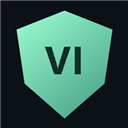
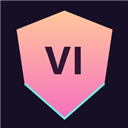
Apply Vice City visual theme across extension interfaces

diff --git a/options/options.css b/options/options.css
@@ -1,1 +1,56 @@
-.layout{display:grid;grid-template-columns:256px 1fr;min-height:100vh}aside{position:sticky;top:0;height:100vh;border-right:1px solid var(--line);padding:30px 22px;display:flex;flex-direction:column}.brand{display:flex;gap:10px;align-items:center;font-size:19px;font-weight:650;letter-spacing:-.5px;margin-bottom:40px}.brand span{color:var(--mint)}.brand small{display:block;font-size:7px;letter-spacing:1px;margin-top:6px}aside nav{display:grid;gap:7px}aside nav a{padding:13px 16px;color:var(--muted);display:flex;gap:14px;border:1px solid transparent;border-radius:10px}aside nav a.active{background:#17332d;border-color:#285345;color:var(--mint)}aside nav a:hover{background:var(--panel);color:var(--text)}.privacy{margin-top:auto;padding:22px 0;font-size:11px}.privacy p{font-size:11px;margin:8px 0 0}aside>small{font-size:10px;line-height:1.8}main{min-width:0;padding:0 54px 60px;max-width:1280px;width:100%;margin:auto}.top{height:90px;border-bottom:1px solid var(--line);display:flex;align-items:center;justify-content:space-between;margin-bottom:40px;font-size:10px;letter-spacing:1.3px;color:var(--muted)}#saveStatus{letter-spacing:0;color:var(--mint);max-width:60%;text-align:right}.intro{font-size:14px;max-width:680px;margin-bottom:28px}.hero{border:1px solid #315449;background:radial-gradient(ellipse at right,#244839,#141f29 70%);border-radius:18px;padding:30px 34px;display:flex;align-items:center;justify-content:space-between;margin-bottom:28px;overflow:hidden}.hero h2{font-size:28px;letter-spacing:-.8px;margin:16px 0 10px}.hero p{margin:0;font-size:13px}.shield{width:125px;height:145px;display:grid;place-items:center;clip-path:polygon(50% 0,95% 18%,89% 70%,50% 100%,11% 70%,5% 18%);background:linear-gradient(140deg,#8df5c0,#568e82);color:#143d33;font-weight:800;font-size:56px;transform:rotate(9deg);flex-shrink:0;margin:0 15px}.setting{display:flex;align-items:center;justify-content:space-between;gap:30px;padding:20px 0;border-top:1px solid var(--line)}.setting b{font-size:13px;font-weight:550}.setting small{display:block;font-size:11px;margin-top:6px;line-height:1.5}.setting select{min-width:165px}.language-grid{display:grid;grid-template-columns:repeat(3,1fr);gap:14px}.language-card{display:flex;align-items:center;gap:12px;background:var(--panel);border:1px solid var(--line);border-radius:12px;padding:18px}.language-card b{display:block;font-size:12px}.language-card small{font-size:10px}.columns,.stat-grid{display:grid;grid-template-columns:1fr 1fr;gap:18px}.stat-grid strong{display:block;font-size:46px;color:var(--mint);letter-spacing:-2px}.stat-grid span{display:block;font-size:12px;color:var(--muted);margin-top:8px}.danger{border-color:#51333d}.danger button{color:var(--pink)}.keyword-form{display:grid;grid-template-columns:2fr 1fr 1fr;gap:12px}.keyword-form label{display:grid;gap:8px}.keyword-form .full{grid-column:1/-1}.keyword-form .inline{display:flex}.keyword-list{padding:0 22px}.keyword-row{gap:16px}.keyword-row .term{min-width:0;flex:1;overflow-wrap:anywhere}.keyword-row .term strong{font-size:13px;font-weight:550}.keyword-row .term small{font-size:10px}.keyword-row input{flex-shrink:0}.pagination{display:flex;align-items:center;justify-content:space-between;gap:12px}.pagination span{color:var(--muted);font-size:12px}details{margin:20px 0}summary{cursor:pointer;color:var(--muted);padding:14px}.deleted{max-height:300px;overflow:auto}@media(min-width:1600px){main{max-width:1200px}}@media(max-width:1000px){main{padding:0 26px 40px}.layout{grid-template-columns:210px 1fr}aside{padding:24px 16px}.language-grid{grid-template-columns:repeat(2,1fr)}.shield{width:90px;height:110px;font-size:40px}.keyword-form{grid-template-columns:1fr 1fr}}@media(max-width:720px){.layout{display:block}aside{position:static;width:100%;height:auto;padding:20px}.brand{margin-bottom:15px}aside nav{display:flex;overflow:auto}aside nav a{padding:9px;white-space:nowrap}.privacy,aside>small{display:none}.top{height:65px;margin-bottom:25px}h1{font-size:29px}.hero{padding:24px}.hero h2{font-size:22px}.shield{display:none}.columns{grid-template-columns:1fr}.setting{gap:15px}.setting select{min-width:130px;max-width:150px}.keyword-form{grid-template-columns:1fr}.keyword-row{flex-wrap:wrap}.keyword-row .actions{margin-left:auto}.language-grid{grid-template-columns:1fr 1fr}}
+.layout { display: grid; grid-template-columns: 256px 1fr; min-height: 100vh; }
+aside { position: sticky; top: 0; height: 100vh; border-right: 1px solid var(--line); background: linear-gradient(180deg, #20162e, #151020 80%); padding: 30px 22px; display: flex; flex-direction: column; }
+.brand { display: flex; gap: 10px; align-items: center; font-size: 19px; font-weight: 700; letter-spacing: -.6px; margin-bottom: 40px; }
+.brand span { color: var(--pink); }
+.brand small { display: block; font-size: 7px; letter-spacing: 1.1px; margin-top: 6px; }
+aside nav { display: grid; gap: 7px; }
+aside nav a { padding: 13px 16px; color: var(--muted); display: flex; gap: 14px; border: 1px solid transparent; border-radius: 10px; }
+aside nav a.active { background: linear-gradient(100deg, #ff90c21e, #ff90c207); border-color: #8c4c75; color: #ffb9db; box-shadow: inset 3px 0 var(--pink); }
+aside nav a:hover { background: #38213f; color: var(--text); }
+.privacy { margin-top: auto; padding: 22px 0; font-size: 11px; }
+.privacy p { font-size: 11px; margin: 8px 0 0; }
+aside > small { font-size: 10px; line-height: 1.8; }
+main { min-width: 0; padding: 0 54px 60px; max-width: 1280px; width: 100%; margin: 0 auto; }
+.top { height: 90px; border-bottom: 1px solid var(--line); display: flex; align-items: center; justify-content: space-between; margin-bottom: 40px; font-size: 9px; letter-spacing: 1.8px; color: #cfa5c3; }
+#saveStatus { letter-spacing: 0; color: var(--mint); max-width: 60%; text-align: right; }
+.intro { font-size: 14px; max-width: 680px; margin-bottom: 28px; }
+.hero { position: relative; isolation: isolate; border: 1px solid #a96793; background: linear-gradient(115deg, #422646, #2c203d 60%, #453047); border-radius: 18px; padding: 32px 34px; display: flex; align-items: center; justify-content: space-between; margin-bottom: 28px; min-height: 240px; overflow: hidden; }
+.hero:before { content: ''; position: absolute; inset: 0 0 0 44%; background: url('../icons/vice-city.svg') center/contain no-repeat; pointer-events: none; z-index: -1; }
+.hero:after { content: ''; position: absolute; inset: auto 0 0; height: 3px; background: linear-gradient(90deg, var(--pink), var(--peach), var(--mint)); }
+.hero-copy { position: relative; max-width: 59%; }
+.hero h2 { font-size: 31px; letter-spacing: -1px; margin: 16px 0 10px; line-height: 1.2; }
+.hero p { margin: 0; font-size: 12px; color: #ddc9e2; }
+.hero-label { display: block; margin-top: 22px; font-size: 8px; letter-spacing: 2.3px; color: var(--peach); }
+.setting { display: flex; align-items: center; justify-content: space-between; gap: 30px; padding: 20px 0; border-top: 1px solid var(--line); }
+.setting b { font-size: 13px; font-weight: 600; }
+.setting small { display: block; font-size: 11px; margin-top: 6px; line-height: 1.5; }
+.setting select { min-width: 165px; }
+.language-grid { display: grid; grid-template-columns: repeat(3,1fr); gap: 14px; }
+.language-card { display: flex; align-items: center; gap: 12px; background: linear-gradient(130deg, #271b36, var(--panel)); border: 1px solid var(--line); border-radius: 12px; padding: 18px; }
+.language-card:has(input:checked) { border-color: #52827e; }
+.language-card b { display: block; font-size: 12px; }
+.language-card small { font-size: 10px; }
+.columns, .stat-grid { display: grid; grid-template-columns: 1fr 1fr; gap: 18px; }
+.stat-grid strong { display: block; font-size: 46px; color: var(--pink); letter-spacing: -2px; }
+.stat-grid > div:last-child strong { color: var(--mint); }
+.stat-grid span { display: block; font-size: 12px; color: var(--muted); margin-top: 8px; }
+.danger { border-color: #915472; }
+.danger button { color: var(--pink); }
+.keyword-form { display: grid; grid-template-columns: 2fr 1fr 1fr; gap: 12px; }
+.keyword-form label { display: grid; gap: 8px; }
+.keyword-form .full { grid-column: 1/-1; }
+.keyword-form .inline { display: flex; }
+.keyword-list { padding: 0 22px; }
+.keyword-row { gap: 16px; }
+.keyword-row .term { min-width: 0; flex: 1; overflow-wrap: anywhere; }
+.keyword-row .term strong { font-size: 13px; font-weight: 550; }
+.keyword-row .term small { font-size: 10px; }
+.keyword-row input { flex-shrink: 0; }
+.pagination { display: flex; align-items: center; justify-content: space-between; gap: 12px; }
+.pagination span { color: var(--muted); font-size: 12px; }
+details { margin: 20px 0; }
+summary { cursor: pointer; color: var(--muted); padding: 14px; }
+.deleted { max-height: 300px; overflow: auto; }
+@media(min-width:1600px) { main { max-width: 1200px; } }
+@media(max-width:1000px) { main { padding: 0 26px 40px; } .layout { grid-template-columns: 210px 1fr; } aside { padding: 24px 16px; } .language-grid { grid-template-columns: repeat(2,1fr); } .keyword-form { grid-template-columns: 1fr 1fr; } .hero { padding: 28px; } .hero h2 { font-size: 27px; } }
+@media(max-width:720px) { .layout { display: block; } aside { position: static; width: 100%; height: auto; padding: 20px; } .brand { margin-bottom: 15px; } aside nav { display: flex; overflow: auto; } aside nav a { padding: 9px; white-space: nowrap; } .privacy, aside > small { display: none; } .top { height: 65px; margin-bottom: 25px; font-size: 8px; } h1 { font-size: 29px; } .hero { padding: 24px; min-height: 265px; } .hero:before { inset: 40% -40px -40px 35%; opacity: .45; } .hero-copy { max-width: 100%; } .hero h2 { font-size: 25px; } .columns { grid-template-columns: 1fr; } .setting { gap: 15px; } .setting select { min-width: 130px; max-width: 150px; } .keyword-form { grid-template-columns: 1fr; } .keyword-row { flex-wrap: wrap; } .keyword-row .actions { margin-left: auto; } .language-grid { grid-template-columns: 1fr 1fr; } }@media(max-width:720px) { .setting:has(select) { display: block; } .setting select { width: 100%; max-width: none; margin-top: 14px; } }

diff --git a/shared/ui.css b/shared/ui.css
@@ -1,1 +1,58 @@
-:root{color-scheme:dark;--bg:#0c1017;--panel:#141b25;--line:#293344;--text:#eaf0f8;--muted:#93a1b6;--mint:#72f2bf;--pink:#f49db7;--radius:16px;font-family:Inter,Segoe UI,system-ui,sans-serif;font-size:14px}*{box-sizing:border-box}body{margin:0;background:var(--bg);color:var(--text)}h1,h2,p{margin-top:0}h1{font-size:36px;letter-spacing:-1.4px;font-weight:650;margin-bottom:16px}h2{font-size:18px;font-weight:600}p{color:var(--muted);line-height:1.65}a{color:inherit;text-decoration:none}button,select,input{font:inherit}button,.file-button{border:1px solid var(--line);border-radius:9px;background:#1c2532;color:var(--text);padding:10px 14px;cursor:pointer;font-weight:600}button:hover,.file-button:hover{border-color:var(--mint);background:#243343}button:disabled{opacity:.5;cursor:default}button.primary{background:var(--mint);color:#10291f;border-color:transparent}button.primary:hover{background:#a0ffd7}input:not([type=checkbox]),select{min-width:0;border:1px solid var(--line);border-radius:8px;background:#101620;color:var(--text);padding:10px 12px}input[type=checkbox]{accent-color:var(--mint);width:18px;height:18px;cursor:pointer}input[role=switch]{appearance:none;width:42px;height:24px;background:#3a4658;border-radius:20px;position:relative;flex-shrink:0}input[role=switch]:before{content:'';position:absolute;top:3px;left:3px;width:18px;height:18px;background:white;border-radius:50%;transition:transform .15s}input[role=switch]:checked{background:#43aa84}input[role=switch]:checked:before{transform:translateX(18px)}:focus-visible{outline:2px solid var(--mint);outline-offset:3px}.eyebrow{font-size:10px;font-weight:700;letter-spacing:1.6px;color:var(--muted)}.dot{display:inline-block;width:6px;height:6px;background:var(--mint);border-radius:50%;margin-right:6px}.status{display:inline-flex;align-items:center;gap:7px;font-size:10px;font-weight:700;letter-spacing:.8px;color:var(--mint)}.status:before{content:'';width:6px;height:6px;background:currentColor;border-radius:50%}small{color:var(--muted)}[hidden]{display:none!important}.box{background:var(--panel);border:1px solid var(--line);padding:24px;border-radius:var(--radius);margin-bottom:18px}.toolbar{display:flex;gap:10px;align-items:center;flex-wrap:wrap;margin:18px 0}.toolbar input{flex:1}label{font-size:13px}.inline{display:flex;align-items:center;gap:8px}.empty{padding:24px 0;color:var(--muted)}.form-row{display:flex;gap:14px;align-items:end;flex-wrap:wrap}.form-row>label{display:grid;gap:8px;flex:1}.form-row>.inline{display:flex}.row{display:flex;gap:12px;align-items:center;justify-content:space-between;border-bottom:1px solid var(--line);padding:14px 0}.row:last-child{border:0}.row small{display:block;margin-top:4px}.actions{display:flex;gap:8px}.actions button{font-size:12px;padding:7px 10px}.file-button input{display:none}
+:root {
+  color-scheme: dark;
+  --bg: #120e20;
+  --panel: #1d172d;
+  --line: #3b2d4e;
+  --text: #fff4f8;
+  --muted: #bcb0cb;
+  --mint: #75e9df;
+  --pink: #ff90c2;
+  --peach: #ffd1a5;
+  --radius: 16px;
+  font-family: 'Segoe UI', system-ui, sans-serif;
+  font-size: 14px;
+}
+* { box-sizing: border-box; }
+body { margin: 0; background: radial-gradient(ellipse at 85% 0%, #43204365, transparent 50%), var(--bg); color: var(--text); }
+h1, h2, p { margin-top: 0; }
+h1 { font-size: 38px; letter-spacing: -1.5px; font-weight: 700; margin-bottom: 16px; }
+h2 { font-size: 18px; font-weight: 600; }
+p { color: var(--muted); line-height: 1.65; }
+a { color: inherit; text-decoration: none; }
+button, select, input { font: inherit; }
+button, .file-button { border: 1px solid var(--line); border-radius: 9px; background: #2b203c; color: var(--text); padding: 10px 14px; cursor: pointer; font-weight: 600; transition: background .15s, border-color .15s, box-shadow .15s; }
+button:hover, .file-button:hover { border-color: var(--pink); background: #3d294d; }
+button:disabled { opacity: .5; cursor: default; }
+button.primary { background: linear-gradient(115deg, #ff94c8, #ffb4b5); color: #301330; border-color: #ffc0d4; box-shadow: 0 4px 24px #ff79bb18; }
+button.primary:hover { background: linear-gradient(115deg, #ffb0d7, #ffd0bb); box-shadow: 0 4px 28px #ff79bb30; }
+input:not([type=checkbox]), select { min-width: 0; border: 1px solid var(--line); border-radius: 8px; background: #181224; color: var(--text); padding: 10px 12px; }
+input::placeholder { color: #9a8baa; }
+input[type=checkbox] { accent-color: var(--mint); width: 18px; height: 18px; cursor: pointer; }
+input[role=switch] { appearance: none; width: 42px; height: 24px; background: #52435f; border: 1px solid #73617f; border-radius: 20px; position: relative; flex-shrink: 0; }
+input[role=switch]:before { content: ''; position: absolute; top: 2px; left: 2px; width: 18px; height: 18px; background: #fff5fc; border-radius: 50%; transition: transform .15s; }
+input[role=switch]:checked { background: #278b86; border-color: #75e9df; box-shadow: 0 0 12px #75e9df18; }
+input[role=switch]:checked:before { transform: translateX(18px); }
+:focus-visible { outline: 2px solid var(--mint); outline-offset: 3px; }
+.eyebrow { font-size: 10px; font-weight: 700; letter-spacing: 1.8px; color: var(--pink); }
+.dot { display: inline-block; width: 6px; height: 6px; background: var(--mint); border-radius: 50%; margin-right: 6px; box-shadow: 0 0 8px #75e9df55; }
+.status { display: inline-flex; align-items: center; gap: 7px; font-size: 10px; font-weight: 700; letter-spacing: 1px; color: var(--mint); }
+.status:before { content: ''; width: 6px; height: 6px; background: currentColor; border-radius: 50%; box-shadow: 0 0 9px currentColor; }
+small { color: var(--muted); }
+[hidden] { display: none !important; }
+.box { background: linear-gradient(140deg, #241b34, var(--panel)); border: 1px solid var(--line); padding: 24px; border-radius: var(--radius); margin-bottom: 18px; }
+.toolbar { display: flex; gap: 10px; align-items: center; flex-wrap: wrap; margin: 18px 0; }
+.toolbar input { flex: 1; }
+label { font-size: 13px; }
+.inline { display: flex; align-items: center; gap: 8px; }
+.empty { padding: 24px 0; color: var(--muted); }
+.form-row { display: flex; gap: 14px; align-items: end; flex-wrap: wrap; }
+.form-row > label { display: grid; gap: 8px; flex: 1; }
+.form-row > .inline { display: flex; }
+.row { display: flex; gap: 12px; align-items: center; justify-content: space-between; border-bottom: 1px solid var(--line); padding: 14px 0; }
+.row:last-child { border: 0; }
+.row small { display: block; margin-top: 4px; }
+.actions { display: flex; gap: 8px; }
+.actions button { font-size: 12px; padding: 7px 10px; }
+.file-button input { display: none; }
+::selection { background: #ff90c24d; color: white; }
+@media (prefers-reduced-motion: reduce) { *, *:before, *:after { transition: none !important; scroll-behavior: auto !important; } }

diff --git a/options/options.html b/options/options.html
@@ -1,7 +1,7 @@
 <!doctype html>
-<html lang="pt-BR"><head><meta charset="utf-8"><meta name="viewport" content="width=device-width, initial-scale=1"><title>GTA VI Blocker · Configurações</title><link rel="stylesheet" href="../shared/ui.css"><link rel="stylesheet" href="options.css"></head><body><div class="layout"><aside><a class="brand" href="#general"><img src="../icons/icon48.png" width="40" height="40" alt=""><div>GTA VI <span>Blocker</span><small>SEU JOGO, SUA DESCOBERTA.</small></div></a><nav id="navigation"><a href="#general">◈ <span>Geral</span></a><a href="#keywords">⌕ <span>Palavras-chave</span></a><a href="#languages">◎ <span>Idiomas</span></a><a href="#characters">♙ <span>Personagens</span></a><a href="#videos">▷ <span>Vídeos</span></a><a href="#sites">◇ <span>Sites permitidos</span></a><a href="#stats">▥ <span>Estatísticas</span></a><a href="#backup">↥ <span>Backup</span></a></nav><div class="privacy"><span class="dot"></span> Privacidade por padrão<p>A análise acontece no seu navegador. Sem servidores, sem rastreadores.</p></div><small>GTA VI Blocker · 1.0.2<br>Projeto independente de fãs.</small></aside>
-<main><header class="top"><span>PAINEL DE PROTEÇÃO</span><span id="saveStatus" role="status" aria-live="polite">Carregando…</span></header>
-<section id="general" class="panel"><p class="eyebrow">NAVEGUE COM TRANQUILIDADE</p><h1>Spoilers ficam de fora.</h1><p class="intro">A próxima grande história merece ser descoberta por você. Ajuste como a extensão cuida da sua navegação.</p><div class="hero"><div><span class="status" id="globalStatus">PROTEÇÃO LOCAL</span><h2>Seu escudo está pronto.</h2><p>Feeds, pesquisas, notícias e vídeos.<br>Uma proteção que acompanha sua navegação.</p></div><div class="shield">VI</div></div><div class="box"><h2>Preferências de proteção</h2><label class="setting"><span><b>Ativar proteção</b><small>Desativar restaura os conteúdos ocultos nas abas abertas.</small></span><input id="enabled" type="checkbox" role="switch"></label><label class="setting"><span><b>Sensibilidade</b><small>No modo extremo, nomes comuns também podem ser ocultados.</small></span><select id="sensitivity"><option value="smart">Inteligente</option><option value="strict">Rigoroso</option><option value="extreme">Extremo</option></select></label><label class="setting"><span><b>Apresentação dos bloqueios</b><small>O aviso permite revelar e ocultar cada conteúdo.</small></span><select id="display"><option value="notice">Ocultar com aviso</option><option value="hide">Ocultação completa</option></select></label><label class="setting"><span><b>Proteger páginas inteiras</b><small>Combina URL, título, cabeçalhos e metadados.</small></span><input id="pageGuard" type="checkbox" role="switch"></label></div></section>
+<html lang="pt-BR"><head><meta charset="utf-8"><meta name="viewport" content="width=device-width, initial-scale=1"><title>GTA VI Blocker · Configurações</title><link rel="stylesheet" href="../shared/ui.css"><link rel="stylesheet" href="options.css"></head><body><div class="layout"><aside><a class="brand" href="#general"><img src="../icons/icon48.png" width="40" height="40" alt=""><div>GTA VI <span>Blocker</span><small>SEU JOGO, SUA DESCOBERTA.</small></div></a><nav id="navigation"><a href="#general">◈ <span>Geral</span></a><a href="#keywords">⌕ <span>Palavras-chave</span></a><a href="#languages">◎ <span>Idiomas</span></a><a href="#characters">♙ <span>Personagens</span></a><a href="#videos">▷ <span>Vídeos</span></a><a href="#sites">◇ <span>Sites permitidos</span></a><a href="#stats">▥ <span>Estatísticas</span></a><a href="#backup">↥ <span>Backup</span></a></nav><div class="privacy"><span class="dot"></span> Privacidade por padrão<p>A análise acontece no seu navegador. Sem servidores, sem rastreadores.</p></div><small>GTA VI Blocker · 1.1.0<br>Projeto independente de fãs.</small></aside>
+<main><header class="top"><span>VICE CITY EDITION / PROTEÇÃO</span><span id="saveStatus" role="status" aria-live="polite">Carregando…</span></header>
+<section id="general" class="panel"><p class="eyebrow">NAVEGUE COM TRANQUILIDADE</p><h1>Spoilers ficam de fora.</h1><p class="intro">A próxima grande história merece ser descoberta por você. Ajuste como a extensão cuida da sua navegação.</p><div class="hero"><div class="hero-copy"><span class="status" id="globalStatus">PROTEÇÃO LOCAL</span><h2>Neon aceso.<br>Spoilers apagados.</h2><p>Feeds, pesquisas, notícias e vídeos.<br>Uma proteção que acompanha sua navegação.</p><span class="hero-label">VICE CITY EDITION · SEM SPOILERS</span></div></div><div class="box"><h2>Preferências de proteção</h2><label class="setting"><span><b>Ativar proteção</b><small>Desativar restaura os conteúdos ocultos nas abas abertas.</small></span><input id="enabled" type="checkbox" role="switch"></label><label class="setting"><span><b>Sensibilidade</b><small>No modo extremo, nomes comuns também podem ser ocultados.</small></span><select id="sensitivity"><option value="smart">Inteligente</option><option value="strict">Rigoroso</option><option value="extreme">Extremo</option></select></label><label class="setting"><span><b>Apresentação dos bloqueios</b><small>O aviso permite revelar e ocultar cada conteúdo.</small></span><select id="display"><option value="notice">Ocultar com aviso</option><option value="hide">Ocultação completa</option></select></label><label class="setting"><span><b>Proteger páginas inteiras</b><small>Combina URL, título, cabeçalhos e metadados.</small></span><input id="pageGuard" type="checkbox" role="switch"></label></div></section>
 <section id="keywords" class="panel" hidden><p class="eyebrow">DETECÇÃO PERSONALIZÁVEL</p><h1>Palavras-chave</h1><p class="intro">Termos auxiliares precisam de evidências do jogo. As regras “sempre” são independentes da sensibilidade.</p><div id="keywordManager"></div></section>
 <section id="characters" class="panel" hidden><p class="eyebrow">QUEM FAZ PARTE DA HISTÓRIA</p><h1>Personagens e NPCs</h1><p class="intro">Nomes comuns precisam de contexto no modo inteligente. Edite a sensibilidade e a regra de cada nome.</p><div id="characterManager"></div></section>
 <section id="languages" class="panel" hidden><p class="eyebrow">PROTEÇÃO SEM FRONTEIRAS</p><h1>Um escudo, muitos idiomas.</h1><p class="intro">17 idiomas e duas variantes chinesas: 18 conjuntos linguísticos. Títulos internacionais compartilhados continuam ativos.</p><div class="toolbar"><button id="allLanguages" class="primary">Selecionar todos</button><button id="defaultLanguages">Restaurar padrão</button><button id="noLanguages">Desmarcar todos</button></div><div id="languageGrid" class="language-grid"></div></section>

diff --git a/popup/popup.css b/popup/popup.css
@@ -1,1 +1,34 @@
-body{width:380px}main{padding:22px}header{display:flex;align-items:center;gap:10px;margin-bottom:22px}header h1{font-size:20px;letter-spacing:-.6px;margin:0}h1 span{color:var(--mint)}header .eyebrow{font-size:7px;letter-spacing:1.3px;margin:4px 0 0}.gear{margin-left:auto;color:var(--muted);font-size:22px}.protection{padding:20px;border:1px solid #2c5044;border-radius:16px;background:radial-gradient(ellipse at top right,#18392f 0%,#141d25 70%)}.protection h2{font-size:24px;letter-spacing:-.7px;margin:14px 0 6px}.protection p{font-size:12px;margin-bottom:18px}.wide{width:100%}.pause{display:flex;align-items:center;justify-content:space-between;color:var(--muted);font-size:11px;margin-top:14px}.pause select{max-width:185px;font-size:11px;padding:7px}.metrics{display:grid;grid-template-columns:1fr 1fr;gap:12px;margin:14px 0}.metrics section{padding:16px;background:var(--panel);border:1px solid var(--line);border-radius:12px}.metrics strong{display:block;font-size:28px;font-weight:600;letter-spacing:-1px}.metrics span{color:var(--muted);font-size:10px}.site{display:flex;justify-content:space-between;align-items:center;gap:10px;padding:16px 0 20px;border-bottom:1px solid var(--line);margin-bottom:20px}.site strong{display:block;font-size:13px;max-width:180px;overflow:hidden;text-overflow:ellipsis;margin:6px 0}.site #siteStatus{font-size:10px;color:var(--muted)}.small{font-size:10px;max-width:120px;padding:8px}#sensitivity{width:100%;font-size:12px;margin-top:10px}.quick{display:grid;grid-template-columns:1fr 1fr;margin-top:16px;gap:8px}.quick a{font-size:10px;padding:10px;background:var(--panel);border:1px solid var(--line);border-radius:8px}.quick a:last-child{grid-column:span 2}.quick a span{float:right;color:var(--muted)}footer{display:flex;align-items:center;font-size:9px;color:var(--muted);padding-top:14px;border-top:1px solid var(--line);margin-top:16px}footer>span:last-child{margin-left:auto}#feedback{font-size:11px;margin:10px 0 0;color:var(--pink)}
+body { width: 380px; }
+main { padding: 18px; }
+header { display: flex; align-items: center; gap: 10px; margin-bottom: 16px; }
+header h1 { font-size: 21px; letter-spacing: -.7px; margin: 0; }
+h1 span { color: var(--pink); }
+header .eyebrow { font-size: 7px; letter-spacing: 1.4px; margin: 4px 0 0; color: var(--muted); }
+.gear { display: grid; place-items: center; width: 32px; height: 32px; margin-left: auto; color: var(--mint); border: 1px solid var(--line); border-radius: 10px; font-size: 20px; }
+.gear:hover { border-color: var(--mint); background: #75e9df12; }
+.protection { position: relative; isolation: isolate; overflow: hidden; padding: 18px; border: 1px solid #986384; border-radius: 16px; background: linear-gradient(135deg, #432744, #251b3a 65%); }
+.protection:before { content: ''; position: absolute; width: 245px; height: 155px; right: -73px; top: -4px; background: url('../icons/vice-city.svg') center/contain no-repeat; opacity: .48; z-index: -1; pointer-events: none; }
+.protection .status { font-size: 9px; }
+.protection h2 { max-width: 240px; font-size: 25px; letter-spacing: -.8px; margin: 13px 0 6px; line-height: 1.15; }
+.protection p { font-size: 11px; color: #e1cfe5; margin-bottom: 16px; max-width: 245px; }
+.wide { width: 100%; }
+.pause { display: flex; align-items: center; justify-content: space-between; color: var(--muted); font-size: 10px; margin-top: 12px; }
+.pause select { max-width: 185px; font-size: 10px; padding: 6px 8px; }
+.metrics { display: grid; grid-template-columns: 1fr 1fr; gap: 10px; margin: 12px 0; }
+.metrics section { padding: 12px 14px; background: linear-gradient(130deg, #2a1c39, #1c182c); border: 1px solid var(--line); border-radius: 12px; }
+.metrics strong { display: block; color: var(--peach); font-size: 27px; font-weight: 650; letter-spacing: -1px; }
+.metrics section:last-child strong { color: var(--mint); }
+.metrics span { color: var(--muted); font-size: 10px; }
+.site { display: flex; justify-content: space-between; align-items: center; gap: 10px; padding: 12px 0 16px; border-bottom: 1px solid var(--line); margin-bottom: 16px; }
+.site strong { display: block; font-size: 12px; max-width: 180px; overflow: hidden; text-overflow: ellipsis; margin: 5px 0; }
+.site #siteStatus { font-size: 10px; color: var(--muted); }
+.small { font-size: 10px; max-width: 120px; padding: 8px; }
+#sensitivity { width: 100%; font-size: 11px; margin-top: 8px; }
+.quick { display: grid; grid-template-columns: 1fr 1fr; margin-top: 14px; gap: 7px; }
+.quick a { font-size: 10px; padding: 9px 10px; background: #21182e; border: 1px solid var(--line); border-radius: 8px; }
+.quick a:hover { border-color: #a45c8c; background: #35213f; }
+.quick a:last-child { grid-column: span 2; }
+.quick a span { float: right; color: var(--pink); }
+footer { display: flex; align-items: center; font-size: 9px; color: var(--muted); padding-top: 12px; border-top: 1px solid var(--line); margin-top: 14px; }
+footer > span:last-child { margin-left: auto; font-size: 8px; letter-spacing: .8px; color: var(--pink); }
+#feedback { font-size: 11px; margin: 8px 0 0; color: var(--pink); }

diff --git a/content/blocker.js b/content/blocker.js
@@ -5,11 +5,12 @@
     const host = document.createElement('div'); host.dataset.gbUi = '';
     const shadow = host.attachShadow({ mode: 'open' });
     const style = document.createElement('style');
-    style.textContent = ':host{display:block!important;position:relative;z-index:2147483646;color-scheme:dark;font:13px/1.5 system-ui!important}section{box-sizing:border-box;background:#151b25;color:#e9eef8;border:1px solid #384456;border-left:3px solid #64efbe;border-radius:12px;padding:16px;margin:8px 0;text-align:left}strong{display:block;font-size:14px}p{color:#aeb9cb;margin:5px 0 12px}button{font:600 12px system-ui;background:#64efbe;color:#08221a;border:0;border-radius:7px;padding:9px 12px;cursor:pointer;margin:3px 6px 3px 0}button:hover{filter:brightness(1.1)}button:focus-visible{outline:3px solid #fff;outline-offset:2px}';
+    style.textContent = ':host{display:block!important;position:relative;z-index:2147483646;color-scheme:dark;font:13px/1.5 system-ui!important}:host([hidden]){display:none!important}section{box-sizing:border-box;background:linear-gradient(115deg,#30203b,#1d172d 75%);color:#fff4f8;border:1px solid #75516d;border-left:3px solid #ff90c2;border-radius:12px;padding:16px;margin:8px 0;text-align:left;box-shadow:0 4px 20px #170e2420}.label{display:block;color:#75e9df;font:700 9px/1.5 system-ui;letter-spacing:1.6px;margin-bottom:8px}strong{display:block;font-size:14px}p{color:#c9b8d2;margin:5px 0 12px}button{font:600 12px system-ui;background:linear-gradient(110deg,#ff94c8,#ffb4b5);color:#301330;border:1px solid #ffc0d4;border-radius:7px;padding:8px 12px;cursor:pointer;margin:3px 6px 3px 0}button:hover{filter:brightness(1.1)}button:focus-visible{outline:3px solid #75e9df;outline-offset:2px}';
     const section = document.createElement('section');
     const strong = document.createElement('strong'); strong.textContent = title;
     const p = document.createElement('p'); p.textContent = description;
-    section.append(strong, p); shadow.append(style, section);
+    const label = document.createElement('span'); label.className = 'label'; label.textContent = 'VI / ÁREA PROTEGIDA';
+    section.append(label, strong, p); shadow.append(style, section);
     return { host, section };
   };
   G.Blocker = class {

diff --git a/popup/popup.html b/popup/popup.html
@@ -6,7 +6,7 @@
 <section class="site"><div><span class="eyebrow">SITE ATUAL</span><strong id="siteName">—</strong><span id="siteStatus"></span></div><button id="siteToggle" class="small" disabled>…</button></section>
 <section><label for="sensitivity" class="eyebrow">NÍVEL DE PROTEÇÃO</label><select id="sensitivity"><option value="smart">Inteligente · proteção com contexto</option><option value="strict">Rigoroso · mais referências</option><option value="extreme">Extremo · máxima sensibilidade</option></select></section>
 <nav class="quick"><a href="../options/options.html#keywords" target="_blank">Palavras-chave <span>↗</span></a><a href="../options/options.html#languages" target="_blank">Idiomas <span>↗</span></a><a href="../options/options.html#sites" target="_blank">Sites permitidos <span>↗</span></a><a href="../options/options.html#stats" target="_blank">Estatísticas <span>↗</span></a><a href="../options/options.html#general" target="_blank">Configurações avançadas <span>↗</span></a></nav>
-<p id="feedback" role="status"></p><footer><span class="dot"></span> 100% local <span>Manifest V3 · v1.0</span></footer></main>
+<p id="feedback" role="status"></p><footer><span class="dot"></span> 100% local <span>VICE CITY EDITION</span></footer></main>
 <script src="../shared/constants.js"></script>
 <script src="../shared/normalization.js"></script>
 <script src="../data/characters.js"></script>

diff --git a/content/page-guard.js b/content/page-guard.js
@@ -17,7 +17,7 @@
       if (score < 4) { this.restore(); return; }
       if (this.host) return;
       const ui = G.ui('Página bloqueada pelo GTA VI Blocker', 'Detectamos conteúdo potencialmente relacionado ao GTA VI nesta página.');
-      ui.host.style.cssText = 'position:fixed!important;inset:0!important;z-index:2147483647!important;background:#0b101b!important;display:grid!important;place-items:center!important;padding:24px!important;';
+      ui.host.style.cssText = 'position:fixed!important;inset:0!important;z-index:2147483647!important;background:radial-gradient(ellipse at 70% 10%,#59304e,#1e142f 50%,#120e20 85%)!important;display:grid!important;place-items:center!important;padding:24px!important;';
       ui.section.style.maxWidth = '520px';
       ui.section.append(G.button('Voltar', () => history.back()), G.button('Liberar esta página temporariamente', () => { this.released = true; this.restore(); this.app.blocker.restore(); this.app.video.restore(); this.app.pageReleased = true; }), G.button('Desativar proteção neste site', async () => { await G.message({ type: 'ALLOW_SITE', domain: location.hostname, subdomains: false }); }));
       document.documentElement.append(ui.host); document.documentElement.setAttribute('data-gb-page-covered', ''); this.host = ui.host;

diff --git a/README.md b/README.md
@@ -4,6 +4,8 @@ Extensão Chrome Manifest V3 para reduzir a exposição involuntária a notícia
 
 ![Painel de configurações do GTA VI Blocker](docs/options.png)
 
+**Vice City Edition:** tema roxo noturno com rosa neon, turquesa, degradês de pôr do sol e ilustração vetorial de palmeiras. A identidade aparece no popup, nas configurações, nos ícones e nos avisos de proteção. Todos os recursos são locais, com foco visível de teclado, adaptação para telas pequenas e suporte à preferência de movimento reduzido.
+
 ## Instalação no Chrome
 
 1. Baixe o ZIP da release e **extraia** em uma pasta permanente, ou clone este repositório.
@@ -77,9 +79,9 @@ npm run test:e2e
 npm run package
 ```
 
-O teste de integração inicia um perfil Chromium temporário e isolado com a extensão real carregada, usa uma página HTTP local e reinicia o navegador para conferir persistência. Capturas ficam em `test-results/`. O ZIP instalável fica em `dist/gta-vi-blocker-1.0.2.zip`, sem dependências de desenvolvimento. O workflow também disponibiliza esse ZIP como artefato.
+O teste de integração inicia um perfil Chromium temporário e isolado com a extensão real carregada, usa uma página HTTP local e reinicia o navegador para conferir persistência. Capturas ficam em `test-results/`. O ZIP instalável fica em `dist/gta-vi-blocker-1.1.0.zip`, sem dependências de desenvolvimento. O workflow também disponibiliza esse ZIP como artefato.
 
-Validação da versão 1.0.2: **70 testes automatizados e 19 verificações de integração passaram**. Veja [TESTING.md](TESTING.md) para ambiente, escopo, página pública verificada e limitações da validação.
+Validação da versão 1.1.0: **70 testes automatizados e 19 verificações de integração passaram**. Veja [TESTING.md](TESTING.md) para ambiente, escopo, página pública verificada e limitações da validação.
 
 Para regenerar os dicionários e o manifest/HTML após editar os respectivos geradores: `node scripts/dictionaries.mjs` e `node scripts/scaffold.mjs`. Os ícones podem ser regenerados no Windows com `powershell -File scripts/icons.ps1`.
 

diff --git a/TESTING.md b/TESTING.md
@@ -1,4 +1,4 @@
-# Verificação da versão 1.0.2
+# Verificação da versão 1.1.0
 
 Validação local em 16/11/2026, Windows, Node 24.21.0, Chromium 141.0.7390.37 (perfil isolado Playwright).
 
@@ -20,6 +20,8 @@ O teste de vídeo do navegador usa um elemento HTML5 sem mídia externa; verific
 - Busca Google por GTA VI: a conexão retornou uma página intermediária de verificação do Google. A proteção de página foi acionada pelo endereço/título. Isso **não valida a cobertura dos cards da página normal de resultados**.
 
 As capturas do popup e das configurações foram renderizadas no Chromium e inspecionadas visualmente. Não foram feitos testes autenticados em Instagram, Facebook, TikTok, X, Twitch ou Reddit. Os seletores desses serviços existem, mas sua cobertura completa não é certificada por este relatório.
+
+Na versão 1.1.0, o tema Vice City foi revisado nas seções de configurações em desktop, no popup, no aviso de conteúdo e em uma tela de 390 px, sem overflow horizontal nas configurações. `node scripts/preview.mjs` gera essas capturas em `test-results/` e verifica erros JavaScript durante a navegação das telas.
 
 ## Roteiro manual complementar
 

diff --git a/docs/release-notes-1.1.0.md b/docs/release-notes-1.1.0.md
@@ -1,0 +1,15 @@
+GTA VI Blocker 1.1.0 — Vice City Edition
+
+Nova identidade visual inspirada no clima de Vice City:
+
+- Roxo noturno, rosa neon, turquesa e tons de pôr do sol.
+- Ilustração vetorial original com palmeiras, horizonte urbano e sol listrado.
+- Popup, navegação, formulários, estatísticas e avisos com o mesmo tema.
+- Ícones da extensão redesenhados em degradê de pôr do sol.
+- Layout para telas pequenas, foco visível de teclado e respeito à preferência de movimento reduzido.
+
+Todos os recursos visuais são locais. As regras de proteção e a liberação individual de conteúdo continuam disponíveis. Tema inspirado no universo do jogo, sem uso de logotipos oficiais.
+
+Validação: 70 testes automatizados, 19 verificações Chromium e revisão visual de popup, avisos e configurações em desktop e celular.
+
+Para atualizar: recarregue o GTA VI Blocker em `chrome://extensions` e depois as abas dos sites. Se usa uma pasta extraída do ZIP, substitua os arquivos primeiro. Suas configurações são preservadas na mesma instalação.
